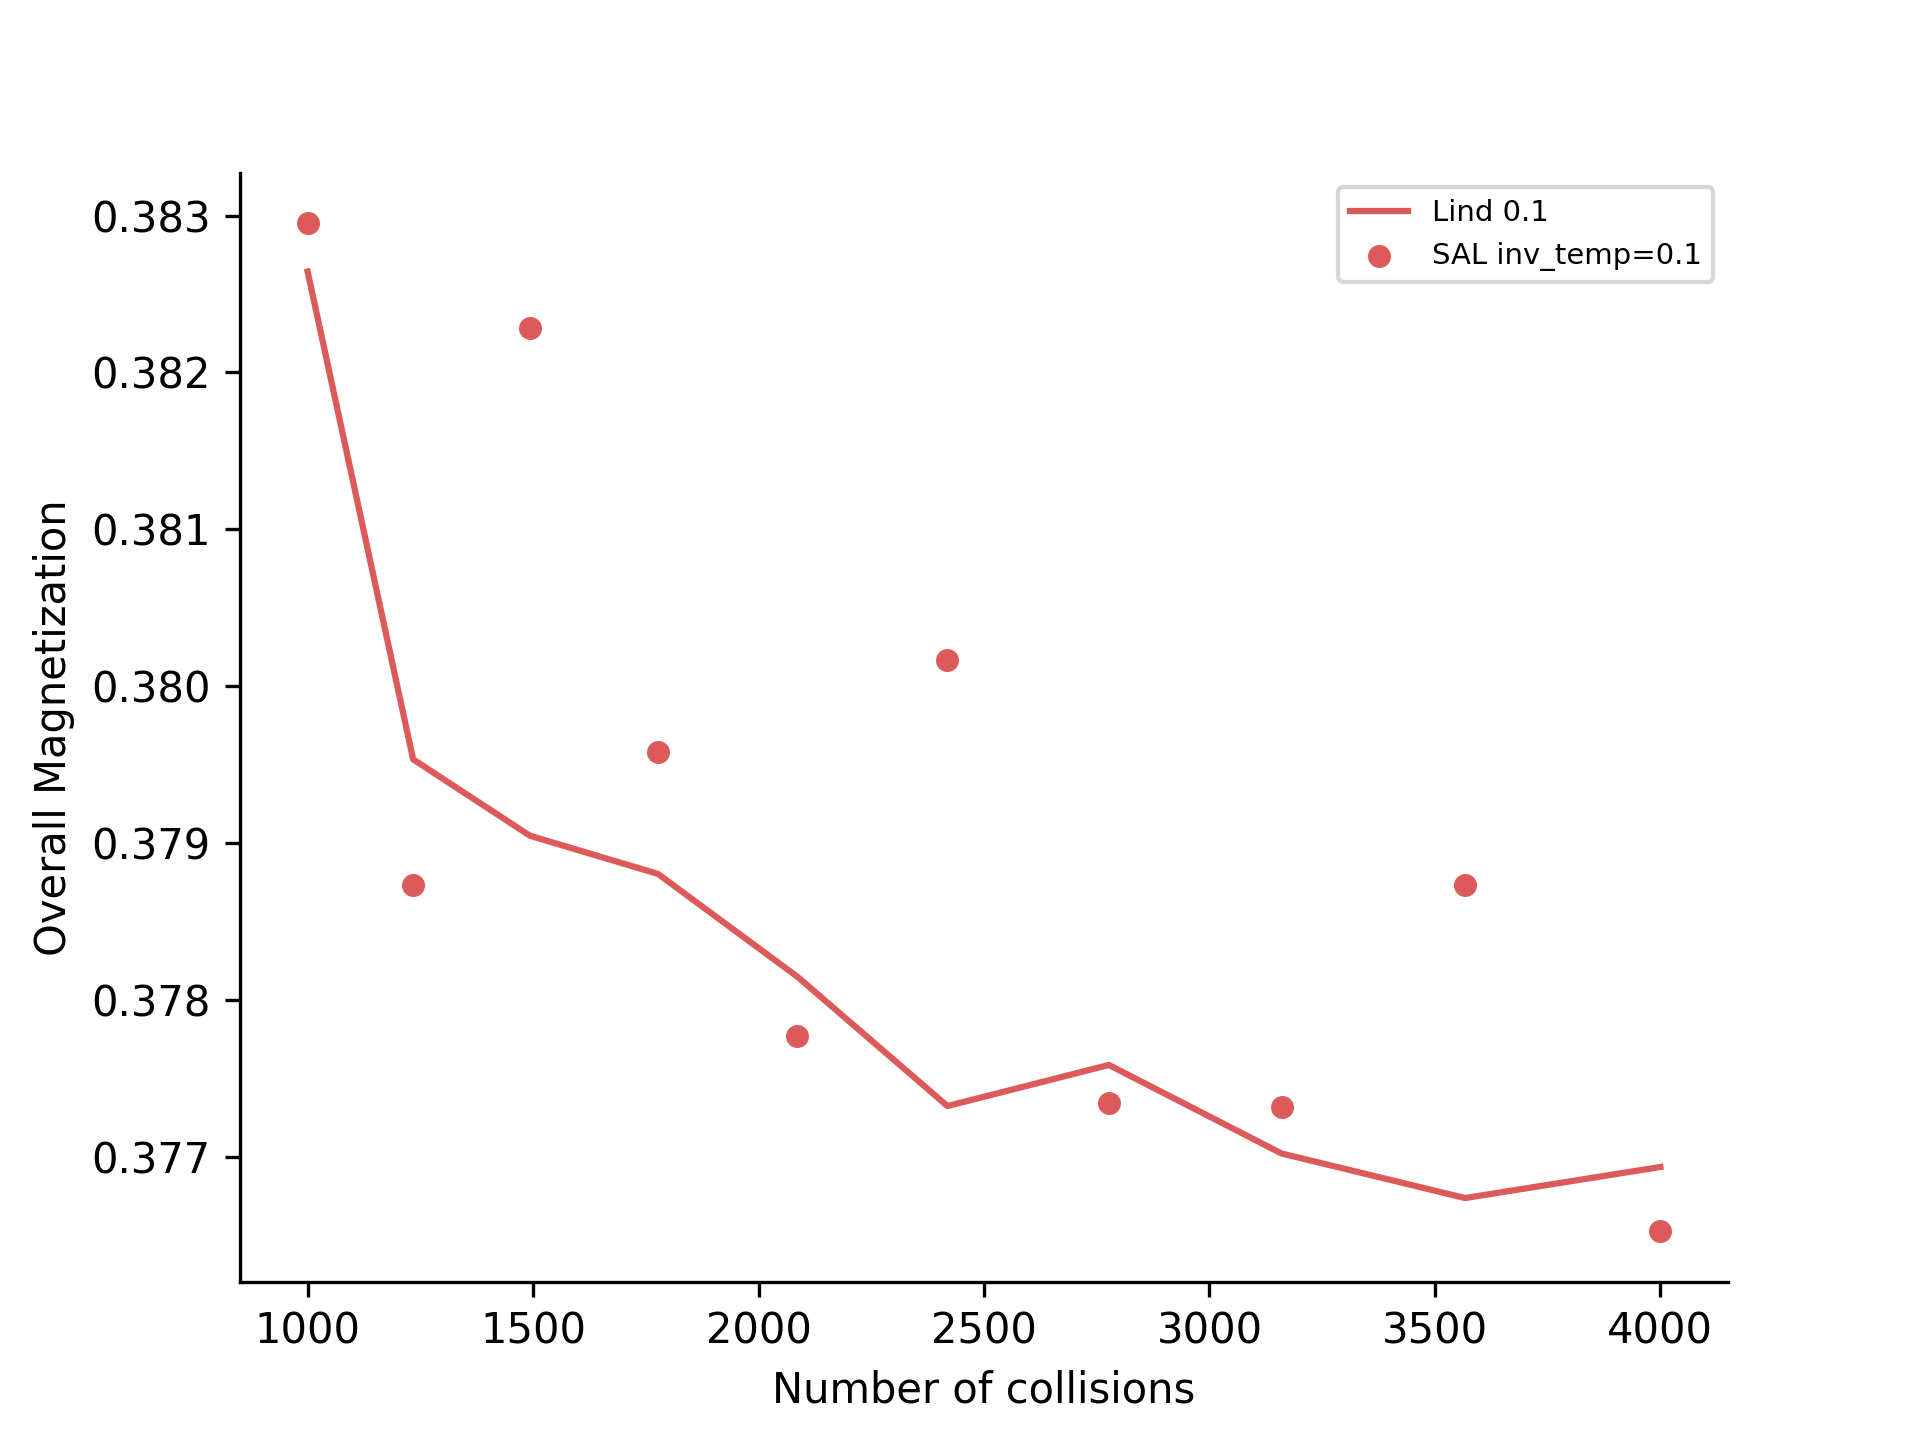
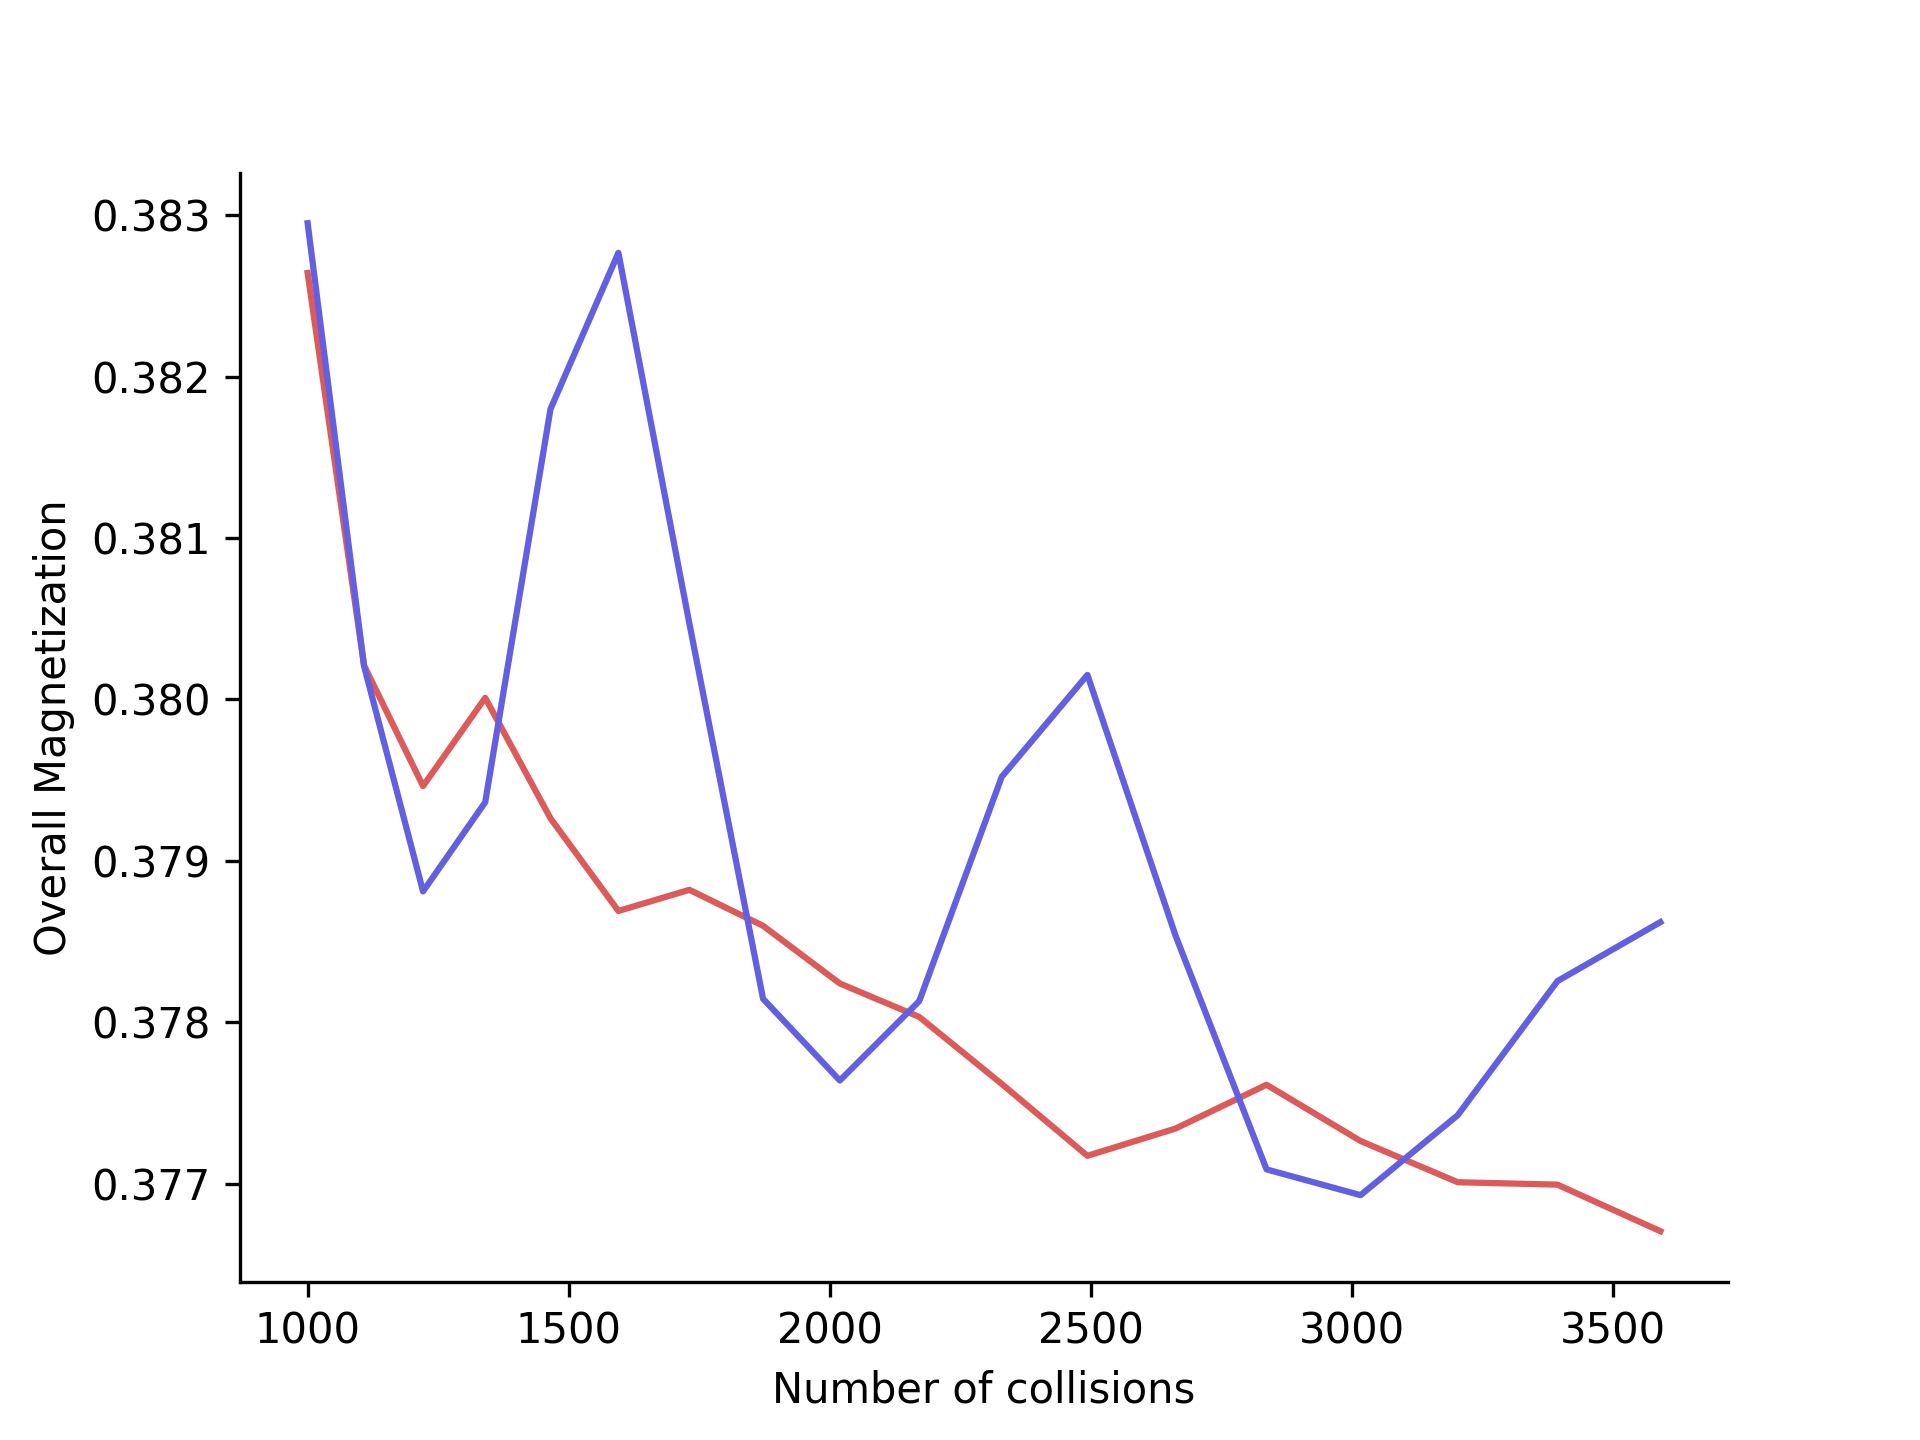
final plot

diff --git a/ising/nonmarkovian/swap/multi_temperature.py b/ising/nonmarkovian/swap/multi_temperature.py
@@ -29,7 +29,7 @@ GAMMA = 0.1
 PS_COUNT = 5
 PS_STRENGTH = np.pi/2 - 0.3
 TIME_RANGE = (10, 20)
-TIME_COUNT = 10
+TIME_COUNT = 20
 EPS = 1
 # INV_TEMP = 1
 
@@ -309,18 +309,22 @@ def test_main():
             neus.append(neu)
             interaction.append(ham_evo_nonmarkovian(rho_sys, rho_env, ham, PS_STRENGTH, GAMMA, time, neu, observable))
 
+
+        count = len(list(filter(lambda neu: neu < 3700, neus)))
+        print(neus, count)
+
         ax = sns.lineplot(
-            x=neus,
-            y=lindbladian,
+            x=neus[:count],
+            y=lindbladian[:count],
             label=f"Lind {_round(inv_temp)}",
-            color=COLORS[ind],
+            color=COLORS[0],
         )
-        ax = sns.scatterplot(
-            x=neus,
-            y=interaction,
+        ax = sns.lineplot(
+            x=neus[:count],
+            y=interaction[:count],
             label=f"SAL inv_temp={_round(inv_temp)}",
             # s=35,
-            color=COLORS[ind],
+            color=COLORS[1],
             # alpha = 1 - opacity[ps_ind]
         )
 
@@ -334,9 +338,9 @@ def test_main():
 
     file_name = f"plots/nonmarkovian/swap/multi_temp_{QUBIT_COUNT}.png"
 
-    # ax.get_legend().remove()
+    ax.get_legend().remove()
     # plt.legend(loc="upper right", bbox_to_anchor=(0.48, 1.15), ncol=1, fontsize=10)
-    plt.legend(ncol=1, fontsize=7)
+    # plt.legend(ncol=1, fontsize=7)
     plt.savefig(file_name, dpi=300)
     print(f"saved the plot to {file_name}")
 
